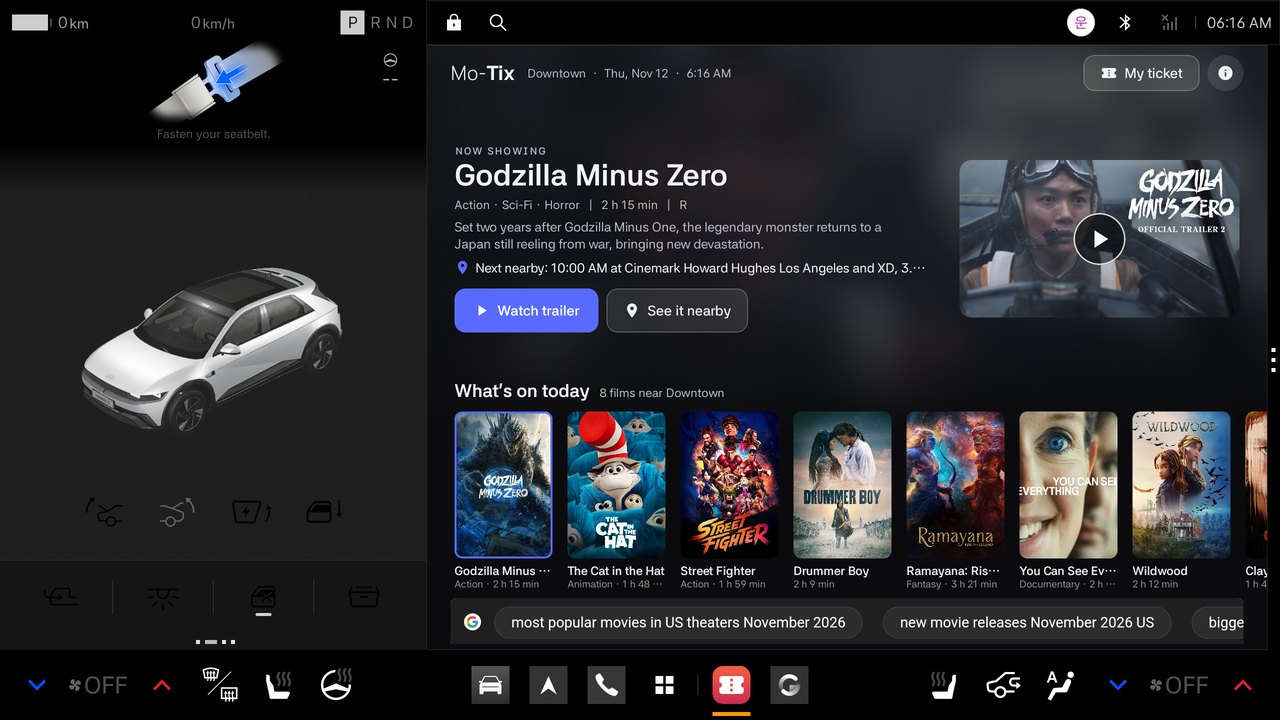
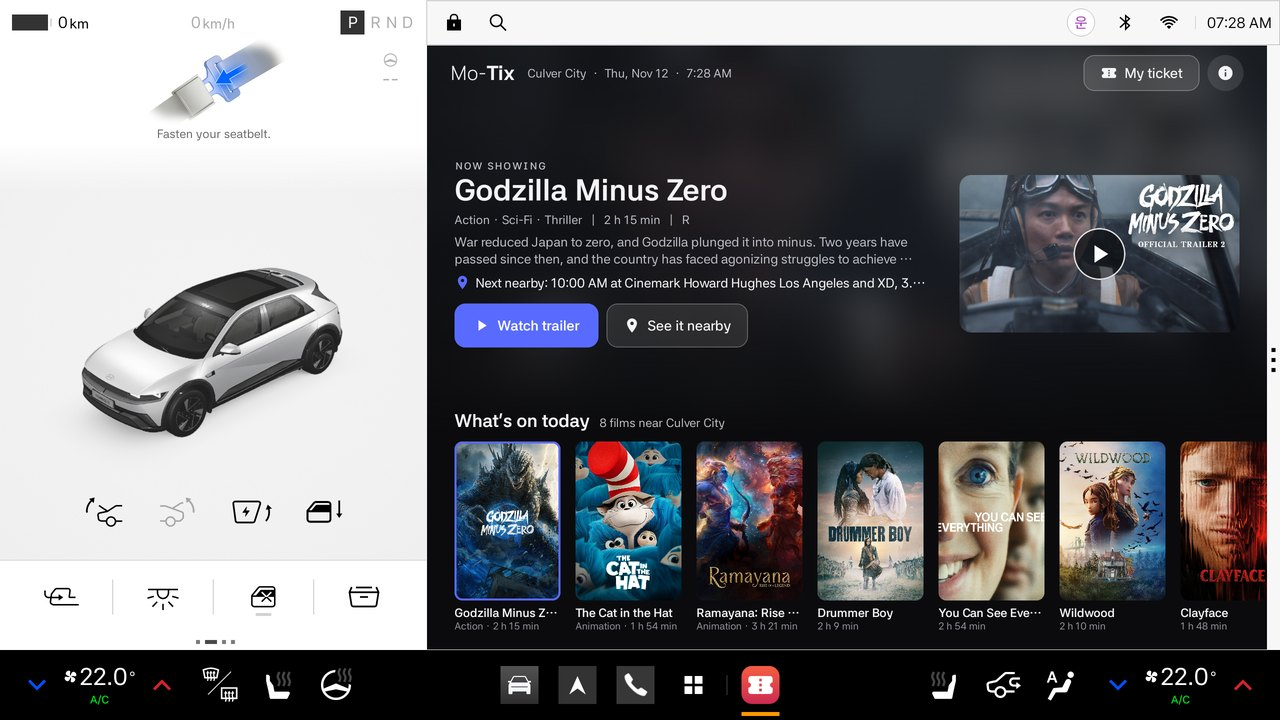
Mo-Tix 1.0.2: hide the Google Search suggestions strip on the lineup
- SHOW_SEARCH_SUGGESTIONS = false; the lineup gives the room to larger posters
- README, NOTICE and architecture notes say the strip is off and what that means for Google's grounding terms
- Lineup screens recaptured without it

diff --git a/app/src/main/java/com/hyperscopic/motix/ui/LineupScreen.kt b/app/src/main/java/com/hyperscopic/motix/ui/LineupScreen.kt
@@ -100,10 +100,10 @@ fun LineupScreen(vm: MoTixViewModel, list: FilmList) {
                     style = Type.LabelM, color = MT.TextSoft, maxLines = 1, overflow = TextOverflow.Ellipsis, modifier = Modifier.weight(1f).alignByBaseline(),
                 )
             }
-            val posterWidth = if (compact) 168.dp else 204.dp
+            val posterWidth = if (compact) 168.dp else 220.dp
             LazyRow(
                 state = rememberLazyListState(),
-                contentPadding = PaddingValues(start = if (compact) 24.dp else 52.dp, end = if (compact) 24.dp else 48.dp, top = 16.dp, bottom = 12.dp),
+                contentPadding = PaddingValues(start = if (compact) 24.dp else 52.dp, end = if (compact) 24.dp else 48.dp, top = 16.dp, bottom = 32.dp),
                 horizontalArrangement = Arrangement.spacedBy(if (compact) 16.dp else 22.dp),
             ) {
                 items(list.films, key = { it.id }) { film ->
@@ -111,8 +111,10 @@ fun LineupScreen(vm: MoTixViewModel, list: FilmList) {
                     PosterCard(film, film.id == selected.id, posterWidth) { if (film.id == selected.id) vm.openTheaters() else vm.select(film) }
                 }
             }
-            // Google asks for its Search suggestions to be shown with a grounded answer, as provided.
-            SearchSuggestions(vm, list.search, Modifier.fillMaxWidth().padding(horizontal = if (compact) 20.dp else 48.dp).padding(bottom = 12.dp))
+            // The Google Search suggestions strip: hidden in this build (see SHOW_SEARCH_SUGGESTIONS).
+            if (SHOW_SEARCH_SUGGESTIONS) {
+                SearchSuggestions(vm, list.search, Modifier.fillMaxWidth().padding(horizontal = if (compact) 20.dp else 48.dp).padding(bottom = 12.dp))
+            }
         }
     }
 }

diff --git a/app/src/main/java/com/hyperscopic/motix/ui/TrailerScreen.kt b/app/src/main/java/com/hyperscopic/motix/ui/TrailerScreen.kt
@@ -110,6 +110,13 @@ fun TrailerScreen(vm: MoTixViewModel, film: Film) {
 }
 
 /**
+ * Whether the lineup shows Google's Search suggestions strip. Off in this build: the strip is hidden from the screen.
+ * Google's terms for Grounding with Google Search ask for the suggestions to be displayed with grounded results, so
+ * turn this on (or take the film list from another source) before a public release.
+ */
+const val SHOW_SEARCH_SUGGESTIONS = false
+
+/**
  * Google Search suggestions for the film list (Grounding with Google Search): the chip Google returns
  * (`searchEntryPoint.renderedContent`), rendered as provided. Tapping a suggestion opens Google's results page.
  */

diff --git a/README.md b/README.md
@@ -58,7 +58,7 @@ How the pieces fit, the loading and caching rules, and the driving logic: [docs/
 
 | What | Source |
 |---|---|
-| Films in theaters now | Google Gemini 2.5 Flash with **Grounding with Google Search** (the Google Search suggestions are shown with the list, as Google requires) |
+| Films in theaters now | Google Gemini 2.5 Flash with **Grounding with Google Search** |
 | Theaters | **Google Places API (New)**: a text search for CGV, Megabox and Lotte Cinema in Korea, a nearby search in the US |
 | Posters, stills, synopses, running times, official trailer ids | **TMDB API** |
 | Trailers | The official trailer in the **YouTube embedded player**, confirmed with YouTube oEmbed |
@@ -149,6 +149,9 @@ docs/         ARCHITECTURE.md · SCREENS.md · screenshots/
 
 - Showtimes, seats, payment and tickets are simulated (above).
 - The trailer is the stock YouTube embedded player; YouTube may show an ad before a trailer.
+- Google's Search suggestions strip for the grounded film list is switched off in this build
+  (`SHOW_SEARCH_SUGGESTIONS` in `ui/TrailerScreen.kt`). Google's terms for Grounding with Google Search ask for it to
+  be displayed with grounded results: switch it on, or take the film list from another source, before a public release.
 - The film list is whatever Google Search grounding returns that day; a first search takes about 15 to 20 seconds
   (later launches show the last list at once and refresh behind it).
 - On the emulator the navigation app keeps its own simulated position, so its route starts from there, not from

diff --git a/docs/SCREENS.md b/docs/SCREENS.md
@@ -19,7 +19,7 @@ Showtimes, seats and payment are simulated (see the README). Film artwork belong
 | ![](screenshots/ko/17_half_window_ticket_beside_navigation.jpg) 13. The half window (1:1): the ticket card beside the map | ![](screenshots/ko/18_driving_static_ticket_card.jpg) 14. Driving (D, 40 km/h): the static ticket card only |
 | ![](screenshots/ko/19_half_window_lineup.jpg) 15. The lineup in the half window | ![](screenshots/ko/20_half_window_theaters.jpg) 16. Theaters in the half window |
 | ![](screenshots/ko/21_half_window_showtime_sheet.jpg) 17. A showing in the half window | ![](screenshots/ko/22_my_ticket_full_window.jpg) 18. The ticket in the full window |
-| ![](screenshots/ko/23_sources.jpg) 19. Sources, with the TMDB notice | ![](screenshots/ko/24_google_search_suggestion_page.jpg) 20. A Google Search suggestion opened (parked only) |
+| ![](screenshots/ko/23_sources.jpg) 19. Sources, with the TMDB notice | |
 
 ## English
 

diff --git a/NOTICE.md b/NOTICE.md
@@ -16,9 +16,9 @@ kept only in the app's cache directory, for at most seven days. <https://www.the
 
 ## Google
 
-- **Films in theaters now**: Google Gemini with Grounding with Google Search. The Google Search suggestions returned
-  with a grounded answer (`searchEntryPoint`) are shown with the film list, unmodified, and open Google's results page.
-  A film list is kept on the device for at most thirty days.
+- **Films in theaters now**: Google Gemini with Grounding with Google Search. A film list is kept on the device for at
+  most thirty days. The Google Search suggestions returned with a grounded answer (`searchEntryPoint`) are kept with
+  the list, but showing them is switched off in this build (see "Known limits" in the README).
 - **Theaters**: Google Maps Platform, Places API (New). Theater names and addresses are shown with the "Google Maps"
   attribution and are not stored between launches.
 

diff --git a/docs/ARCHITECTURE.md b/docs/ARCHITECTURE.md
@@ -161,6 +161,11 @@ Grounding with Google Search requires showing the returned Search suggestions wi
 tapped suggestion opens `SearchPage`: Google's results page and nothing else (other hosts are not followed, sign-in is
 not reachable), parked only.
 
+**This is switched off in the current build** (`SHOW_SEARCH_SUGGESTIONS = false` in `ui/TrailerScreen.kt`): the strip
+is hidden from the lineup. The code and the stored suggestions are still there. Before a public release either switch
+it back on or stop using grounded results for the film list (TMDB's now-playing list by region would also remove the
+15-second first search).
+
 ## Not here yet
 
 - A real `TicketingPartner` and a hosted `ListingsRepository`.
